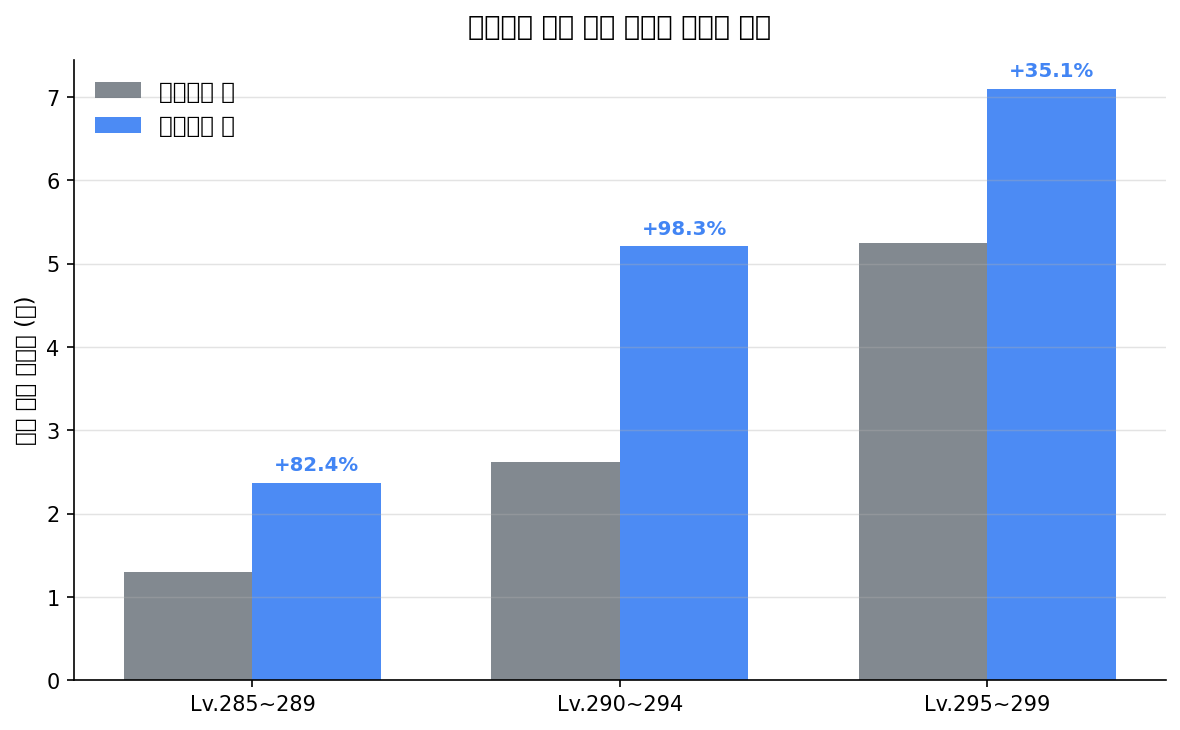
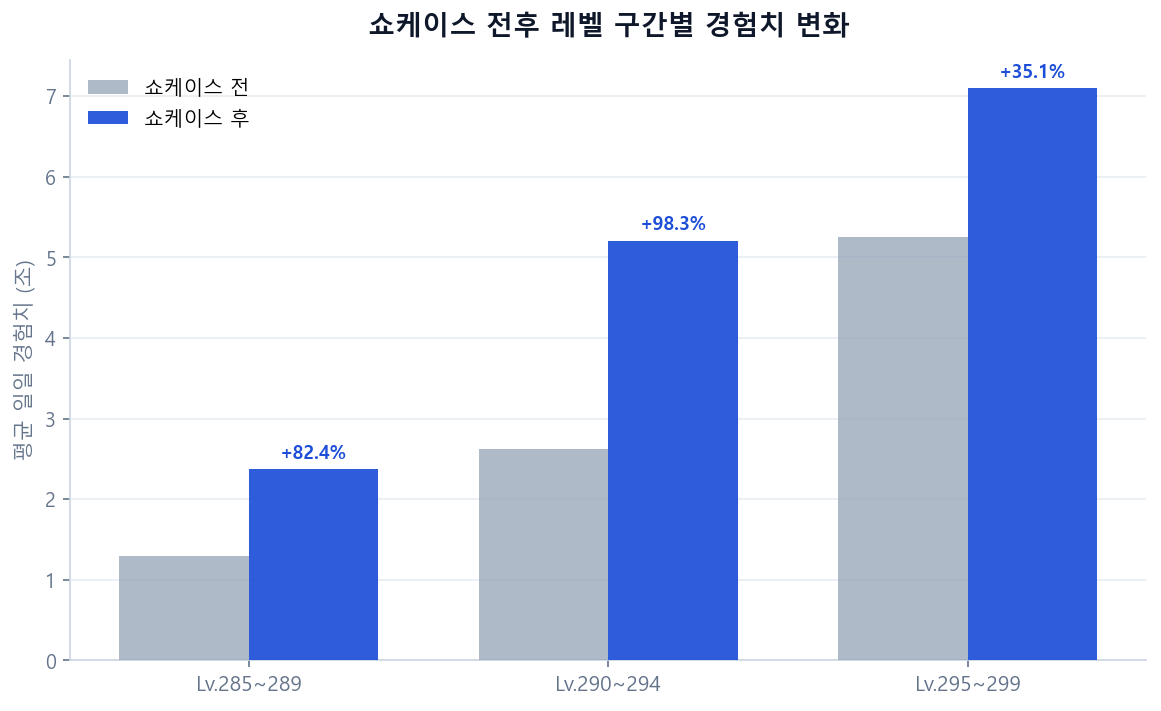
feat: 링크 위치·제목 통일·한글 폰트·차트 리디자인
- 각 프로젝트 제목 바로 밑 링크 버튼 (GitHub/리포트/대시보드) 추가
- SVG 썸네일 프로젝트 4건 title을 이미지 내 텍스트와 통일
- 차트 8종 전면 재작성: Malgun Gothic 적용 + 세련된 스타일
- page.liquid: links frontmatter 렌더 블록 추가
- _components.scss: .project-link-btn 스타일 추가
- 각 프로젝트 하단 결과물 섹션 제거 (상단 링크로 대체)

diff --git a/_sass/_components.scss b/_sass/_components.scss
@@ -395,6 +395,40 @@ ul.task-list input[type="checkbox"] {
   color: var(--global-theme-color);
 }
 
+// Project detail — link buttons (GitHub / 리포트 / 대시보드)
+
+.project-links {
+  display: flex;
+  flex-wrap: wrap;
+  gap: 0.45rem;
+}
+
+.project-link-btn {
+  display: inline-flex;
+  align-items: center;
+  gap: 0.35rem;
+  padding: 0.28rem 0.8rem;
+  border-radius: 20px;
+  font-size: 0.8rem;
+  font-weight: 600;
+  text-decoration: none;
+  border: 1.5px solid var(--global-divider-color);
+  color: var(--global-text-color);
+  background-color: var(--global-card-bg-color);
+  transition: border-color 0.15s, color 0.15s;
+
+  i {
+    font-size: 0.78rem;
+    color: var(--global-theme-color);
+  }
+
+  &:hover {
+    border-color: var(--global-theme-color);
+    color: var(--global-theme-color);
+    text-decoration: none;
+  }
+}
+
 // Project detail — hero image and prev/next nav
 
 .project-hero {

diff --git a/_projects/6_maple_exp.md b/_projects/6_maple_exp.md
@@ -1,12 +1,22 @@
 ---
 layout: page
-title: 대규모 실데이터 기반 이벤트 효과 정량 측정 (메이플스토리 96k)
+title: 메이플스토리 고레벨 유저 경험치 분석
 description: 285Lv 이상 유저 96,000명 데이터로 신규 지역·이벤트의 성장 지표 영향을 통계 검정으로 측정
 img: assets/img/proj_maple_exp.svg
 importance: 5
 category: 개인
 tags: [Python, Nexon API, 통계 검정, 시계열]
 related_publications: false
+links:
+  - text: GitHub
+    url: "https://github.com/icedo724/Maplestory_Analysis"
+    icon: "fab fa-github"
+  - text: 리포트
+    url: "https://www.notion.so/miniminimin/32afbcdaed288075a929eb7f533361b0"
+    icon: "fa-solid fa-file-lines"
+  - text: 대시보드
+    url: "https://maple-exp.streamlit.app/"
+    icon: "fa-solid fa-chart-bar"
 ---
 
 ## 배경 및 문제 정의
@@ -60,4 +70,3 @@ Lv.295~299가 가장 큰 반응 — 쇼케이스 효과(+35.3%)와 반대 패턴
 
 세 요인 모두 통계적으로 유의. 레벨 구간별로 반응 패턴이 다르게 나타나 **이벤트 설계 시 타겟 레벨 구간을 명시적으로 고려해야 함**을 실증.
 
-**결과물**: [GitHub](https://github.com/icedo724/Maplestory_Analysis) · [리포트](https://www.notion.so/miniminimin/32afbcdaed288075a929eb7f533361b0) · [대시보드](https://maple-exp.streamlit.app/)

diff --git a/_projects/5_maple_clustering.md b/_projects/5_maple_clustering.md
@@ -1,12 +1,22 @@
 ---
 layout: page
-title: "유저 이탈 예측: 클러스터링 + 생존 분석 파이프라인 (메이플스토리)"
+title: 메이플스토리 유저 행동 클러스터링
 description: 활동·성장 패턴 군집화 후 Kaplan-Meier 생존 분석으로 세그먼트별 이탈 시점 차이를 통계 검증
 img: assets/img/proj_maple_cluster.svg
 importance: 4
 category: 개인
 tags: [Python, 클러스터링, 생존 분석]
 related_publications: false
+links:
+  - text: GitHub
+    url: "https://github.com/icedo724/Maplestory_Analysis"
+    icon: "fab fa-github"
+  - text: 리포트
+    url: "https://www.notion.so/miniminimin/346fbcdaed2880209e39ff1b490e34e5"
+    icon: "fa-solid fa-file-lines"
+  - text: 대시보드
+    url: "https://maple-user-clustering.streamlit.app/"
+    icon: "fa-solid fa-chart-bar"
 ---
 
 ## 배경 및 문제 정의
@@ -74,4 +84,3 @@ related_publications: false
 - 이탈 방지 리소스: C1(진입 장벽 완화·챌린저스 만료 시점 개입) 우선
 - 콘텐츠 심화: C0·C2(성장 목표 제공·소셜 기능 강화)
 
-**결과물**: [GitHub](https://github.com/icedo724/Maplestory_Analysis) · [리포트](https://www.notion.so/miniminimin/346fbcdaed2880209e39ff1b490e34e5) · [대시보드](https://maple-user-clustering.streamlit.app/)

diff --git a/_projects/1_medi.md b/_projects/1_medi.md
@@ -1,6 +1,6 @@
 ---
 layout: page
-title: 거래처 데이터 보강 및 등급 재조정
+title: 거래처 등급 재조정
 description: 직관 기반 거래처 등급을 정량 기준으로 전환 — 영업 우선순위 재편의 데이터 근거 마련
 img: assets/img/proj_medi.svg
 importance: 1
@@ -9,6 +9,13 @@ tags: [Python, SQL, 통계 검정, 카이제곱]
 period: "2024.07 – 2024.10"
 role: 데이터 분석가 (인턴)
 related_publications: false
+links:
+  - text: GitHub
+    url: "https://github.com/icedo724/medi"
+    icon: "fab fa-github"
+  - text: 리포트
+    url: "https://www.notion.so/miniminimin/2e0fbcdaed2880f1a37fe87f58603c1a"
+    icon: "fa-solid fa-file-lines"
 ---
 
 ## 배경 및 문제 정의
@@ -116,4 +123,3 @@ def assign_grade(row):
 
 **한계**: 매출 기반 지표만으로는 "성장 가능성 있는 신규 거래처"를 높게 평가하기 어렵다. 장기적으로는 거래처 생애 단계(신규/성장/성숙/이탈)를 추가 변수로 고려해야 한다.
 
-**결과물**: [GitHub](https://github.com/icedo724/medi) · [분석 리포트](https://www.notion.so/miniminimin/2e0fbcdaed2880f1a37fe87f58603c1a?source=copy_link)

diff --git a/_projects/2_jobsonar.md b/_projects/2_jobsonar.md
@@ -1,12 +1,19 @@
 ---
 layout: page
-title: JobSonar — 데이터직군 채용공고 수집·조회 서비스
+title: "JobSonar — 채용공고 기술스택 빈도 분석"
 description: 채용공고 자동 수집부터 직무·기술 스택 빈도 시각화까지 — 취업 시장 트렌드 한 페이지 집약
 img: assets/img/proj_jobsonar.svg
 importance: 7
 category: 개인
 tags: [Python, Selenium, Streamlit, NLP]
 related_publications: false
+links:
+  - text: GitHub
+    url: "https://github.com/icedo724/JobSonar"
+    icon: "fab fa-github"
+  - text: 대시보드
+    url: "https://huggingface.co/spaces/mininiming/jobsonar"
+    icon: "fa-solid fa-chart-bar"
 ---
 
 데이터 직군 채용 시장의 트렌드를 한 화면에 집약한 대시보드.
@@ -20,7 +27,3 @@ related_publications: false
 - Dash 기반 대시보드 (직무·기술 스택·근무 조건 필터)
 
 **도구**: Python · SQL · SQLite · Web Crawling · Dash
-
-**결과물**
-- [GitHub](https://github.com/icedo724/JobSonar)
-- [대시보드](https://huggingface.co/spaces/mininiming/jobsonar)

diff --git a/_projects/7_loaquant.md b/_projects/7_loaquant.md
@@ -7,6 +7,16 @@ importance: 6
 category: 개인
 tags: [Python, 시계열, 인과추론, API]
 related_publications: false
+links:
+  - text: GitHub
+    url: "https://github.com/icedo724/LoaQuant"
+    icon: "fab fa-github"
+  - text: 리포트
+    url: "https://www.notion.so/miniminimin/318fbcdaed2880cd8de8dd88406d3564"
+    icon: "fa-solid fa-file-lines"
+  - text: 대시보드
+    url: "https://loaquant.streamlit.app/"
+    icon: "fa-solid fa-chart-bar"
 ---
 
 ## 배경 및 문제 정의
@@ -54,4 +64,3 @@ Prophet 모형으로 "패치 없었을 경우" 예측값을 생성, 실제값과
 - 가상 경제는 단기적으로 **유저 심리**에 요동치지만, 장기적으로 **실제 공급량**이 시세를 통제
 - 이 구조를 수치로 보여주는 것이 이상 거래 탐지·BM 시뮬레이션의 기반
 
-**결과물**: [GitHub](https://github.com/icedo724/LoaQuant) · [리포트](https://www.notion.so/miniminimin/318fbcdaed2880cd8de8dd88406d3564) · [대시보드](https://loaquant.streamlit.app/)

diff --git a/_projects/3_crimson_desert.md b/_projects/3_crimson_desert.md
@@ -7,6 +7,13 @@ importance: 2
 category: 개인
 tags: [Python, NLP, 시계열, 회귀 분석]
 related_publications: false
+links:
+  - text: GitHub
+    url: "https://github.com/icedo724/crimson_desert_review"
+    icon: "fab fa-github"
+  - text: 리포트
+    url: "https://www.notion.so/miniminimin/358fbcdaed28804e92f6c73ecc6fa899"
+    icon: "fa-solid fa-file-lines"
 ---
 
 출시 후 6주간 Steam 리뷰 **71,000건(본 IP) + 376,000건(벤치마크)** 전수 분석.
@@ -70,4 +77,3 @@ Steam appreviews API로 전수 수집 후 패치 윈도우별로 집계, 95% 신
 
 대규모 텍스트 데이터를 직접 수집·전처리하고 단일 지표(만족도)를 다층으로 분해한 경험. 속성 분류 정확도(커버리지 64.4%)와 다중 검정 보정 미적용이 남은 한계다.
 
-**결과물**: [GitHub](https://github.com/icedo724/crimson_desert_review) · [리포트](https://www.notion.so/miniminimin/358fbcdaed28804e92f6c73ecc6fa899)
